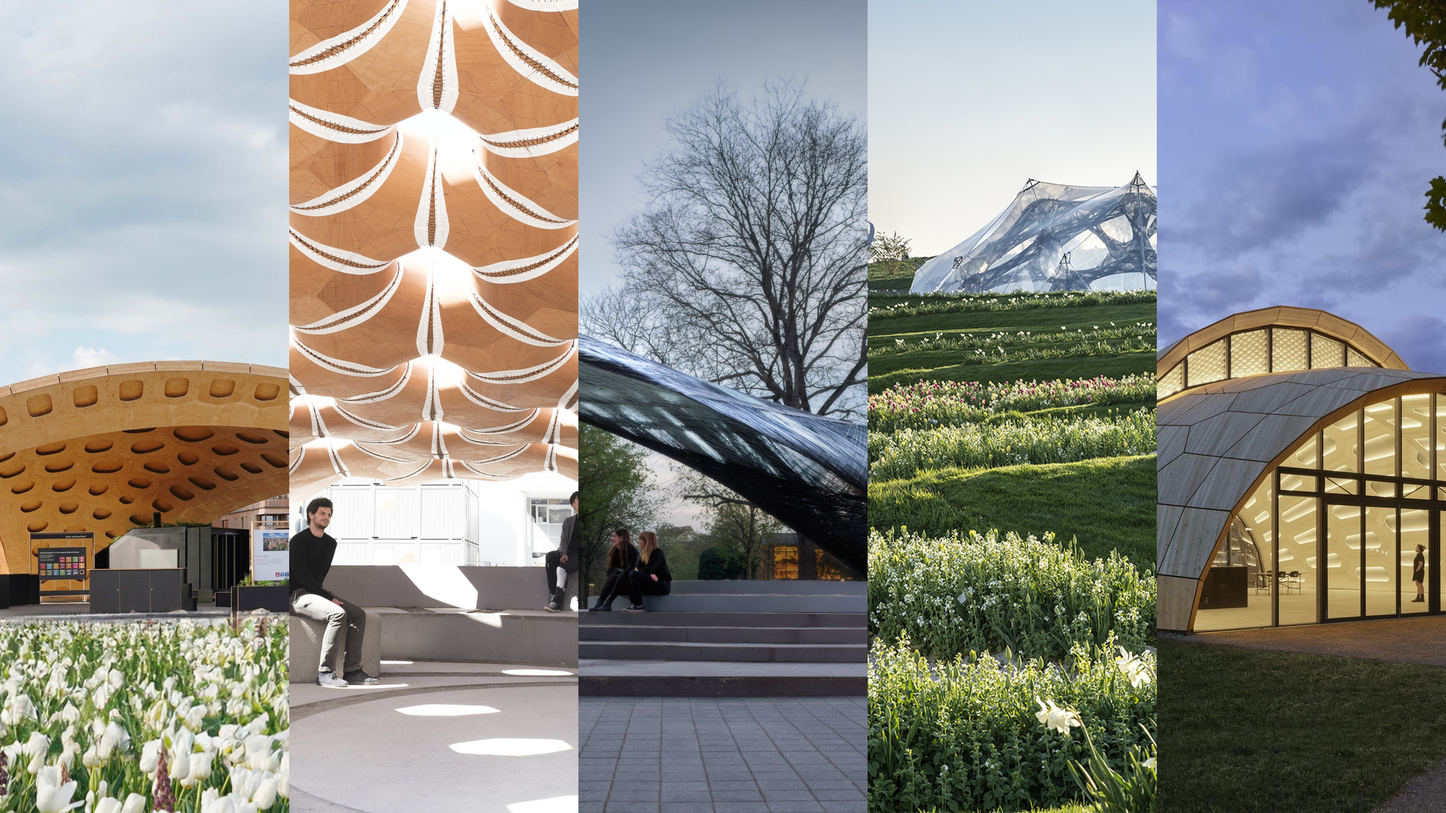
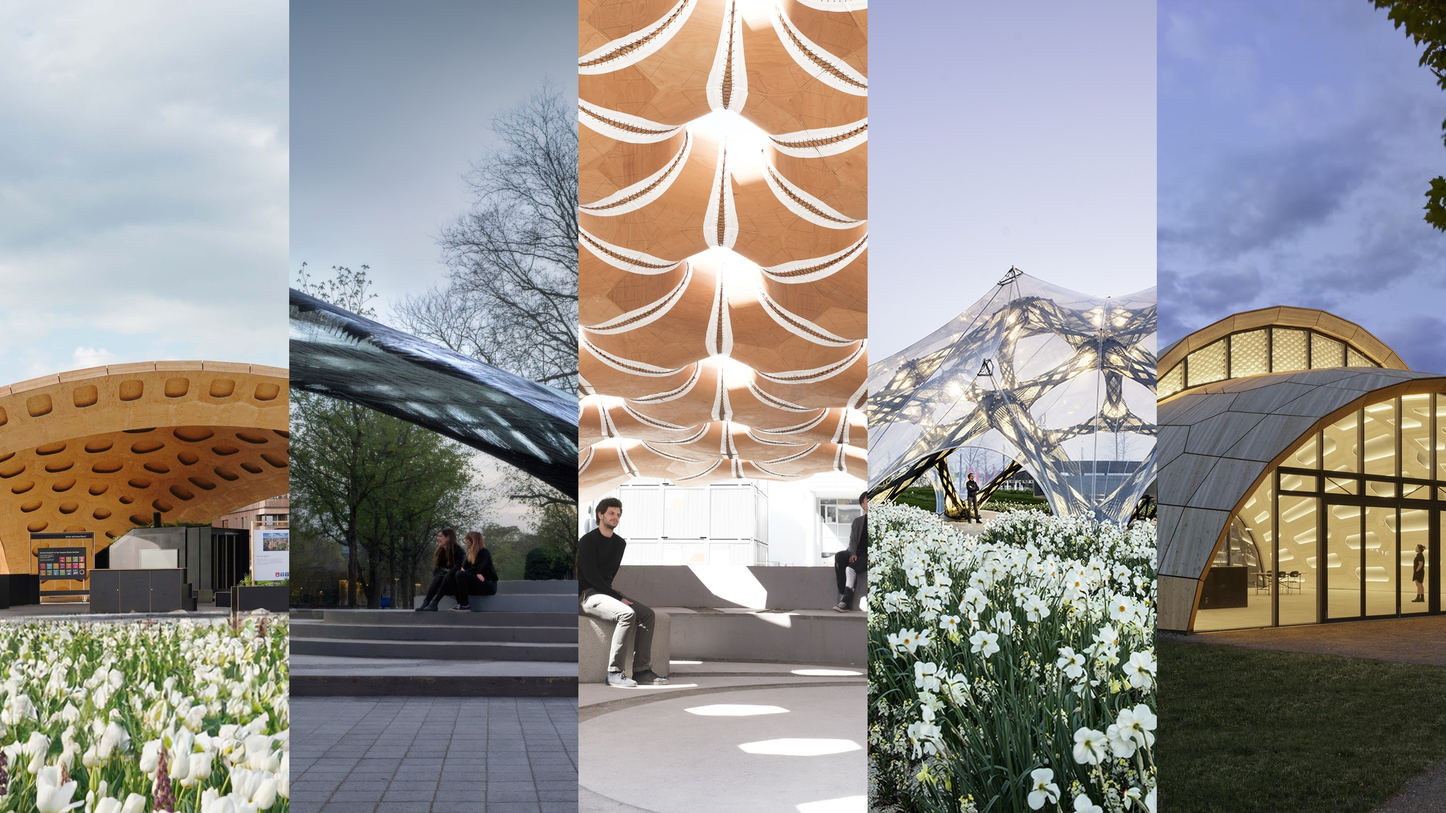
chore(uft): refresh deck cover and upscaled imagery assets
Regenerate uft-cover.jpg, re-encode the BUGA Fibre and ICD 2012 stills, and
add upscaled ICD RP13-14 / RP14-15 sources plus an SVG BuildSystems logo. The
pt deck.mdx is updated to import the new asset paths.

diff --git a/scripts/make-uft-cover.py b/scripts/make-uft-cover.py
@@ -17,25 +17,28 @@ N = 5
 STRIPE_W = CANVAS_W // N
 STRIPE_H = CANVAS_H
 
+# (path, x_shift): x_shift nudges the horizontal crop center for wide
+# images, as a fraction of the stripe width. Negative moves left.
 images = [
-    DECK / "buga-wood-pavilion-reuse-2023.jpg",
-    DECK / "icd-itke-research-pavilion-2015-16.jpg",
-    DECK / "icd-itke-research-pavilion-2016-17_upscayl_2x_high-fidelity-4x.png",
-    DECK / "buga-fibre-pavilion-2019.jpg",
-    DECK / "livmats-biomimetic-shell.jpg",
+    (DECK / "buga-wood-pavilion-reuse-2023.jpg", 0.0),
+    (DECK / "icd-itke-research-pavilion-2016-17_upscayl_2x_high-fidelity-4x.png", -0.40),
+    (DECK / "icd-itke-research-pavilion-2015-16.jpg", 0.0),
+    (DECK / "buga-fibre-pavilion-2019.jpg", 0.0),
+    (DECK / "livmats-biomimetic-shell.jpg", 0.0),
 ]
 
 canvas = Image.new("RGB", (CANVAS_W, CANVAS_H), (255, 255, 255))
 target_ratio = STRIPE_W / STRIPE_H
 
-for i, path in enumerate(images):
+for i, (path, x_shift) in enumerate(images):
     img = Image.open(path).convert("RGB")
     w, h = img.size
     src_ratio = w / h
 
     if src_ratio > target_ratio:
         new_w = int(h * target_ratio)
-        left = (w - new_w) // 2
+        left = (w - new_w) // 2 + int(x_shift * new_w)
+        left = max(0, min(left, w - new_w))
         box = (left, 0, left + new_w, h)
     else:
         new_h = int(w / target_ratio)
